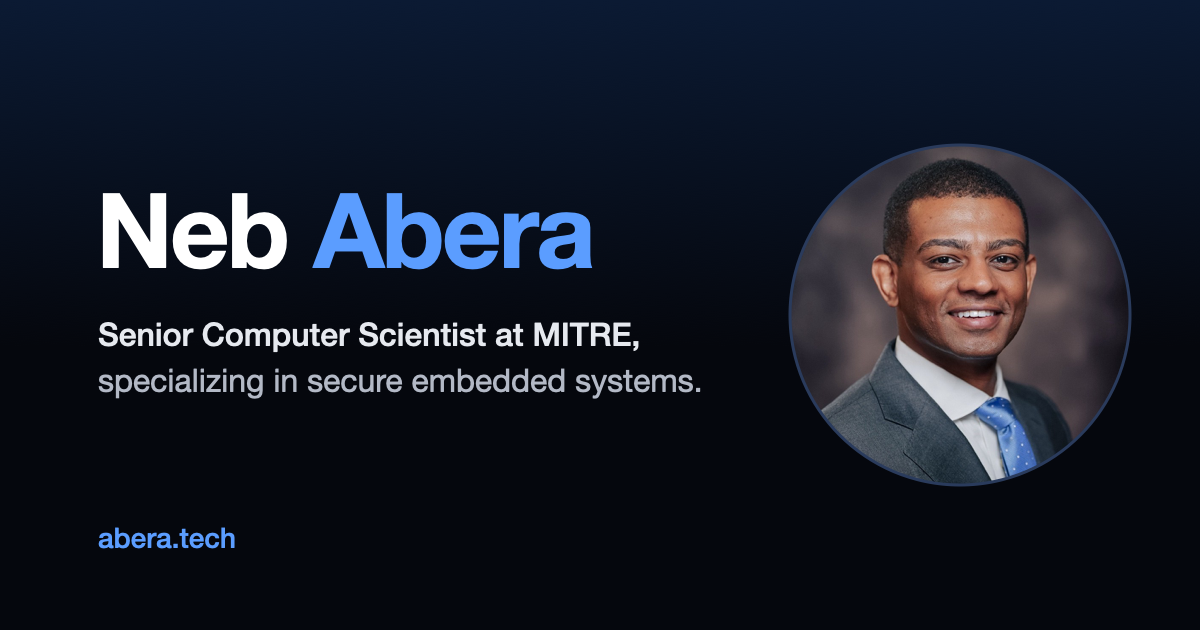
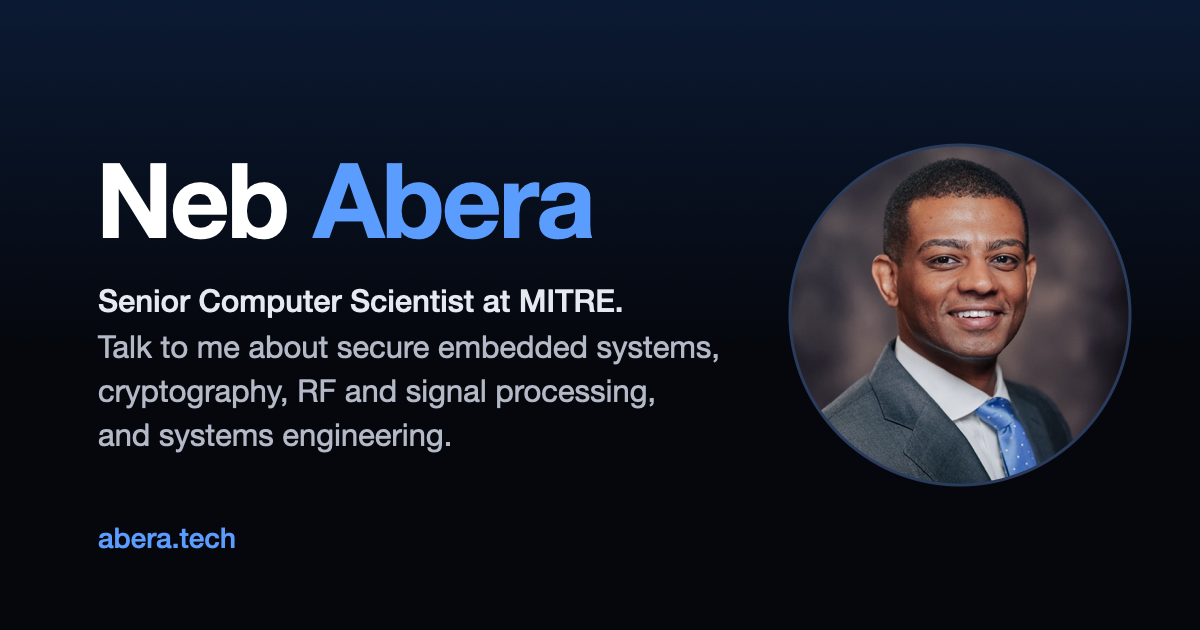
Say the approved line everywhere the site introduces me
One sentence under the name: the footer, the home page description, the
Person record and the preview card all carry it, and LinkedIn carries the
same, so the profiles agree.

Assisted-by: claude-fable-5-1

Changed region(s): [[0.0617, 0.2413, 0.6167, 0.7238]]

diff --git a/aberatech.client/src/site/meta.ts b/aberatech.client/src/site/meta.ts
@@ -14,9 +14,13 @@ import { guides, projects } from "./sections";
 export const siteName = "Neb Abera";
 export const siteOrigin = "https://abera.tech";
 
-/** The one line under the name in the footer, and on the preview card. */
+/**
+ * The one line under the name: the footer, the home page description, the
+ * preview card and the Person record all say this and nothing more. Kept the
+ * same on LinkedIn, so the two profiles agree.
+ */
 export const tagline =
-  "Senior Computer Scientist at MITRE, specializing in secure embedded systems.";
+  "Senior Computer Scientist at MITRE. Talk to me about secure embedded systems, cryptography, RF and signal processing, and systems engineering. I’m always open to book recommendations.";
 
 export interface PageMeta {
   /** The <title>. The site name is appended to every page but the home page. */
@@ -28,7 +32,7 @@ export interface PageMeta {
 const structuralMeta: Record<string, PageMeta> = {
   "/": {
     title: siteName,
-    description: `${tagline} Guides for soldiers leaving the Army, study plans for field radio, signal processing and post-quantum cryptography, and the tools I built.`,
+    description: tagline,
   },
   "/guides": {
     title: "Guides",
